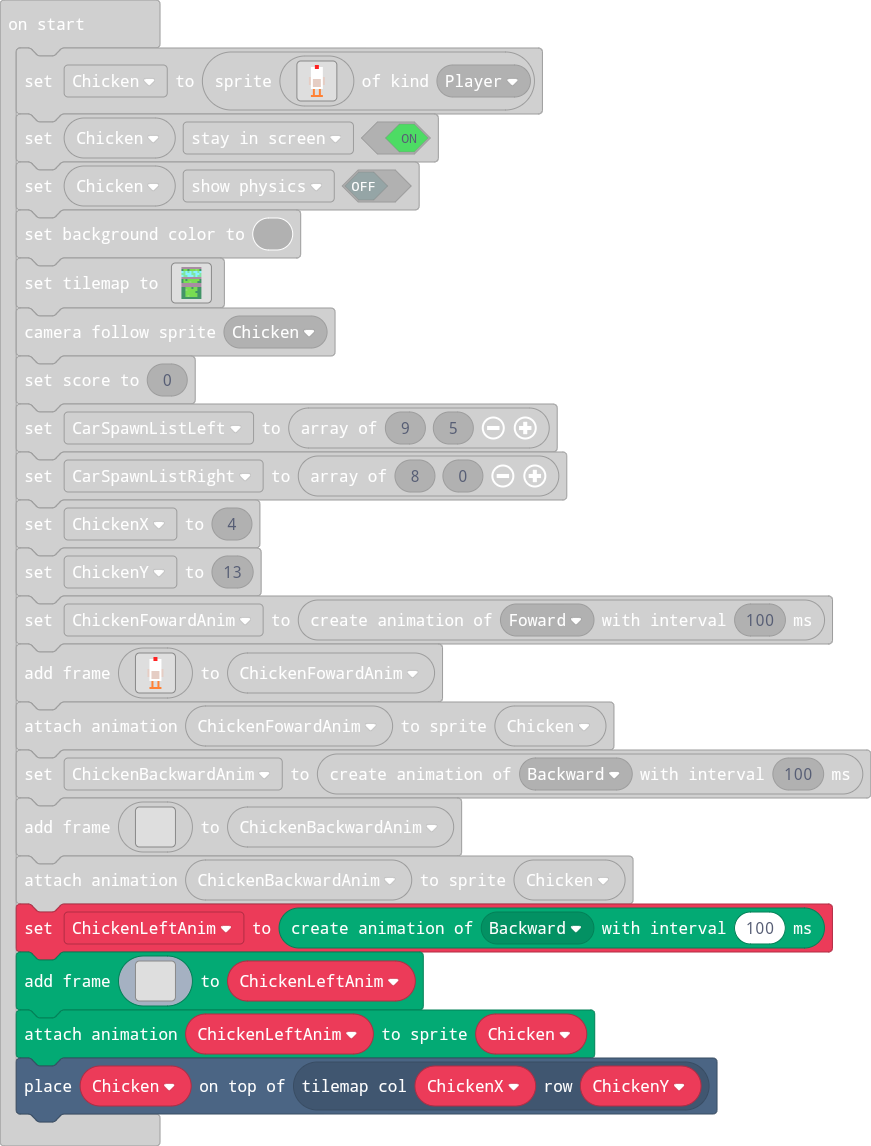
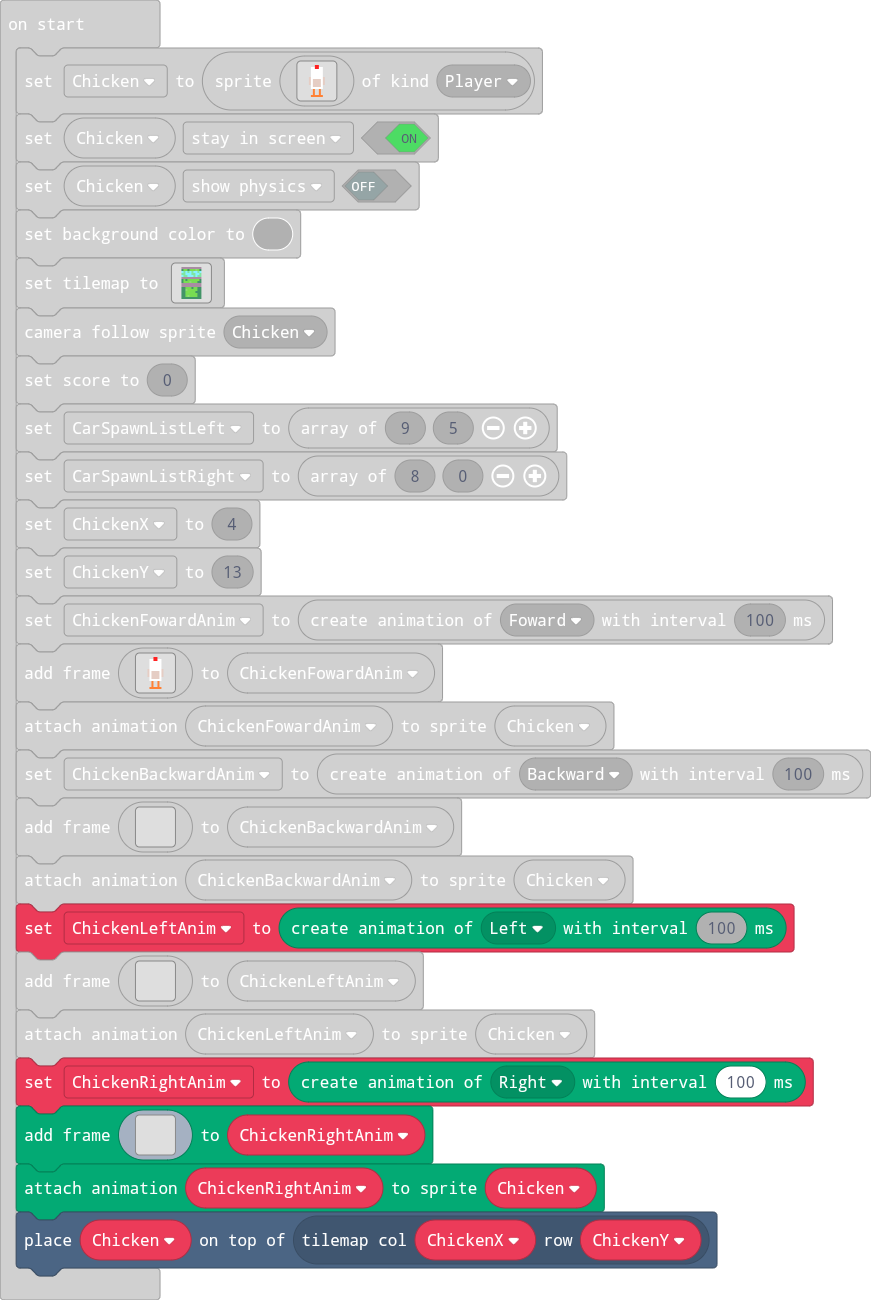
Update main.blocks, main.ts

diff --git a/main.ts b/main.ts
@@ -3,7 +3,9 @@ enum ActionKind {
     Idle,
     Jumping,
     Foward,
-    Backward
+    Backward,
+    Left,
+    Right
 }
 namespace myTiles {
     //% blockIdentity=images._tile
@@ -211,7 +213,7 @@ ChickenBackwardAnim.addAnimationFrame(img`
 . . . . . . . . . . . . . . . . 
 `)
 animation.attachAnimation(Chicken, ChickenBackwardAnim)
-let ChickenLeftAnim = animation.createAnimation(ActionKind.Backward, 100)
+let ChickenLeftAnim = animation.createAnimation(ActionKind.Left, 100)
 ChickenLeftAnim.addAnimationFrame(img`
 . . . . . . . . . . . . . . . . 
 . . . . . . . . . . . . . . . . 
@@ -231,6 +233,26 @@ ChickenLeftAnim.addAnimationFrame(img`
 . . . . . . . . . . . . . . . . 
 `)
 animation.attachAnimation(Chicken, ChickenLeftAnim)
+let ChickenRightAnim = animation.createAnimation(ActionKind.Right, 100)
+ChickenRightAnim.addAnimationFrame(img`
+. . . . . . . . . . . . . . . . 
+. . . . . . . . . . . . . . . . 
+. . . . . . . . . . . . . . . . 
+. . . . . . . . . . . . . . . . 
+. . . . . . . . . . . . . . . . 
+. . . . . . . . . . . . . . . . 
+. . . . . . . . . . . . . . . . 
+. . . . . . . . . . . . . . . . 
+. . . . . . . . . . . . . . . . 
+. . . . . . . . . . . . . . . . 
+. . . . . . . . . . . . . . . . 
+. . . . . . . . . . . . . . . . 
+. . . . . . . . . . . . . . . . 
+. . . . . . . . . . . . . . . . 
+. . . . . . . . . . . . . . . . 
+. . . . . . . . . . . . . . . . 
+`)
+animation.attachAnimation(Chicken, ChickenRightAnim)
 tiles.placeOnTile(Chicken, tiles.getTileLocation(ChickenX, ChickenY))
 game.onUpdateInterval(100, function () {
     if (Math.percentChance(50)) {
